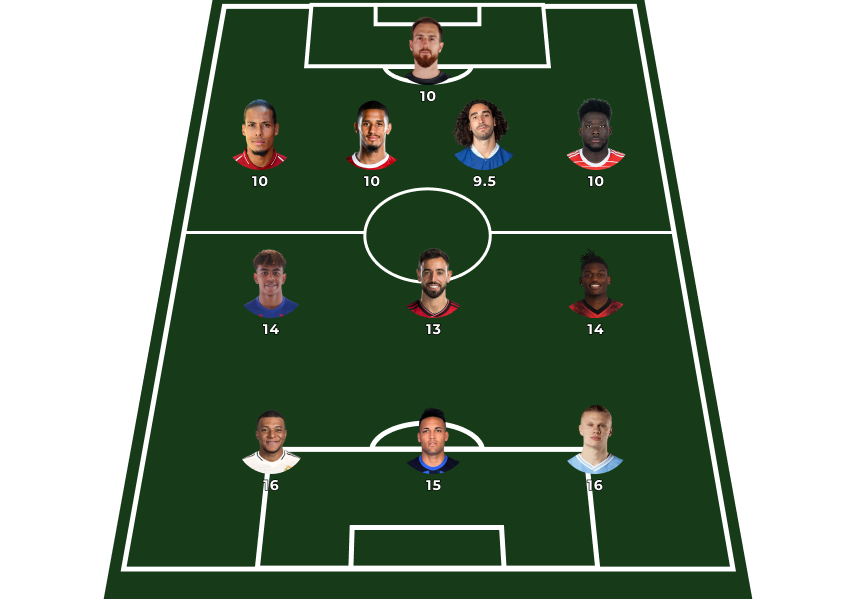
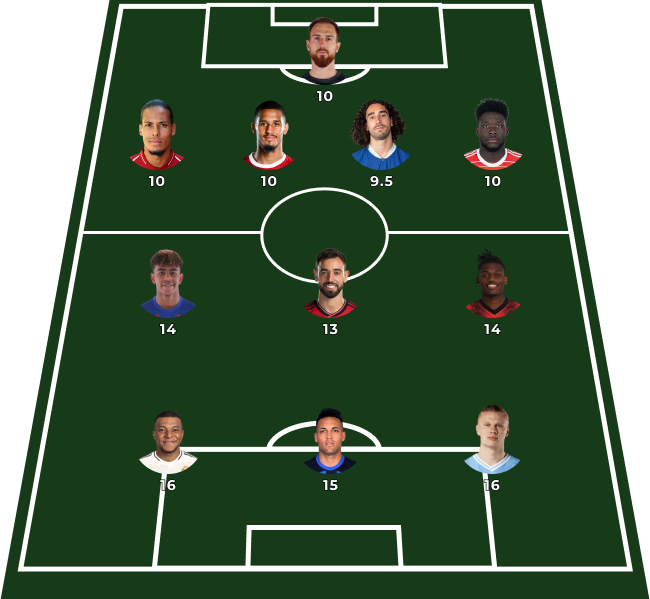
promotion create team ui fix

diff --git a/src/components/Promotions/CreateTeam/index.jsx b/src/components/Promotions/CreateTeam/index.jsx
@@ -7,36 +7,36 @@ const CreateTeam = () => {
       <Gutter>
         <div className="flex w-full flex-col items-center justify-between gap-4 lg:flex-row lg:gap-0">
           <div className="mt-8 flex flex-1 flex-col flex-wrap">
-            <div className="mb-12 w-5/6 -skew-x-12 self-start rounded-sm bg-primary pl-12 pr-16">
+            <div className="mb-12 w-5/6 max-w-[32rem] -skew-x-12 self-start rounded-sm bg-primary pl-12 pr-16">
               <h3 className="promotion-header text-center font-bold capitalize text-black">
                 Umumiy qoidalar
               </h3>
             </div>
-            <div className="flex flex-col flex-wrap justify-center gap-4 self-center">
-              <h2 className="promotion-header pl-8 font-bold uppercase">
+            <div className="flex flex-col flex-wrap justify-center gap-4 self-start lg:pl-8">
+              <h2 className="promotion-header font-bold uppercase">
                 jamoa yig&apos;ing
               </h2>
-              <p className="min-w-xl pl-8 text-base text-neutral-300 xs:text-xs lg:text-lg xl:text-xl 2xl:text-xl">
+              <p className="max-w-xl text-sm text-neutral-300 xs:text-base lg:text-lg xl:text-xl">
                 100 millionlik byudjetdan foydalaning va chempionatning eng
                 yaxshifutbolchilaridan iborat jamoani to&apos;plang
               </p>
-            </div>
-            <div className="relative self-start xs:px-8">
-              <Image
-                width={450}
-                height={505}
-                alt="footballers images"
-                className="min-h-72 min-w-80 xs:h-72 xs:w-72"
-                src="/images/football-tiles.png"
-              />
+              <div className="relative self-start xs:px-8">
+                <Image
+                  width={400}
+                  height={400}
+                  alt="footballers images"
+                  className="aspect-[1.12/1] w-full"
+                  src="/images/football-tiles.png"
+                />
+              </div>
             </div>
           </div>
-          <div className="">
+          <div className="items-end self-end">
             <Image
               src="/images/promotion-1.png"
-              width={800}
-              height={800}
-              className="min-w-full xs:min-w-96 md:min-w-[32rem] xl:min-w-[40rem] 2xl:min-w-[46rem]"
+              width={600}
+              height={600}
+              className="aspect-[1/1.025] h-full w-full min-w-full"
               alt="interactive stadium"
             />
           </div>

diff --git a/src/app/(pages)/championships/components/Modal/index.jsx b/src/app/(pages)/championships/components/Modal/index.jsx
@@ -4,32 +4,49 @@ import { useCreateTeam } from 'app/hooks/competition/useCreateTeam/useCreateTeam
 import { useState } from 'react'
 import { FORMATIONS } from 'app/utils/formations.util'
 import { useRouter } from 'next/navigation'
-import { useSelector } from 'react-redux'
+import { useDispatch, useSelector } from 'react-redux'
 import { selectTeams } from 'app/lib/features/teams/teams.selector'
+import { useCheckExistingTeam } from 'app/hooks/competition/useCheckExistingTeam/useCheckExistingTeam'
 
-const CompetitionModal = ({ toggleModal, game }) => {
+const CompetitionModal = ({ toggleModal, competition }) => {
+  const dispatch = useDispatch()
   const [title, setTitle] = useState('')
   const [formation, setFormation] = useState(FORMATIONS['4-3-3'])
   const router = useRouter()
   const selectedTeams = useSelector(selectTeams)
+  const { season } = useSelector((state) => state.season)
+  const {
+    checkTeam,
+    isLoading: checkLoading,
+    error: checkError,
+    data: checkData,
+  } = useCheckExistingTeam()
 
   const { createTeam, isLoading, error, data } = useCreateTeam()
 
   const handleSubmit = async (e) => {
     e.preventDefault()
 
-    const currentGame = selectedTeams.find(
-      (game) => game.competition_id === game.id
-    )
+    // await createTeam({ title, formation, competition_id: competition.id })
+    await checkTeam({ competition_id: competition.id, season_id: season.id })
+    console.log(checkData)
 
-    await createTeam({ title, formation, competition_id: game.id })
+    console.log(data, isLoading, error)
     if (!error && !isLoading && data) {
       setTitle('')
       setFormation(FORMATIONS['4-3-3'])
-      if (currentGame) {
-        router.push(`/play/${game.slug}/${currentGame.id}`)
-      }
       toggleModal()
+      dispatch(addGameToTeam(data[0]))
+    }
+
+    const currentGame = selectedTeams.find(
+      (game) => game.competition_id === competition.id
+    )
+
+    console.log(currentGame)
+
+    if (currentGame) {
+      router.push(`/play/${competition.slug}/${currentGame.id}`)
     }
   }
 

diff --git a/src/app/hooks/competition/useCheckExistingTeam/useCheckExistingTeam.jsx b/src/app/hooks/competition/useCheckExistingTeam/useCheckExistingTeam.jsx
@@ -4,14 +4,14 @@ import { useDispatch, useSelector } from 'react-redux'
 import { supabase } from '../../../lib/supabaseClient'
 import { useRouter } from 'next/navigation'
 
-export const useCreateTeam = () => {
+export const useCheckExistingTeam = () => {
   const [error, setError] = useState(null)
   const [isLoading, setIsLoading] = useState(false)
   const [data, setData] = useState(null)
   const { userTable, userAuth } = useSelector((state) => state.auth)
   const router = useRouter()
 
-  const createTeam = async ({ title, formation, competition_id }) => {
+  const checkTeam = async ({ competition_id, season_id }) => {
     setIsLoading(false)
     setError(null)
 
@@ -22,9 +22,9 @@ export const useCreateTeam = () => {
       return
     }
 
-    if (!title) {
-      setError('Ism bolishi shart')
-      toast.error('ism bolishi shart')
+    if (!competition_id || !season_id) {
+      setError('Competition and season are required')
+      toast.error('Competition and season are required')
       return
     }
 
@@ -33,14 +33,10 @@ export const useCreateTeam = () => {
 
       const { data, error } = await supabase
         .from('team')
-        .insert({
-          name: title,
-          formation,
-          balance: 100,
-          competition_id,
-          user_id: userTable.id,
-        })
-        .select()
+        .select('id, name')
+        .eq('user_id', userTable.id)
+        .eq('competition_id', 1)
+        .eq('season_id', season_id)
 
       if (error) {
         setError(error.message)
@@ -48,8 +44,8 @@ export const useCreateTeam = () => {
         return
       }
       if (data) {
-        setData(data[0])
-        toast.success('Jomoa muvaffaqiyatli yaratildi')
+        setData(data)
+        console.log(data)
       }
     } catch (error) {
       setError(error.message)
@@ -58,5 +54,5 @@ export const useCreateTeam = () => {
       setIsLoading(false)
     }
   }
-  return { createTeam, isLoading, error, data }
+  return { checkTeam, isLoading, error, data }
 }

diff --git a/src/app/(pages)/championships/components/Championship/index.jsx b/src/app/(pages)/championships/components/Championship/index.jsx
@@ -10,8 +10,8 @@ const Championship = ({ game }) => {
   const dispatch = useDispatch()
   const [isModalOpen, setModalOpen] = useState(false)
   const [currentGame, setCurrentGame] = useState(null)
-  const teams = useSelector(selectTeams)
   const router = useRouter()
+  const { teams } = useSelector((state) => state.teams)
   const { season } = useSelector((state) => state.season)
 
   const toggleModal = () => {
@@ -27,7 +27,6 @@ const Championship = ({ game }) => {
       }
     }
   }
-  // eslint-disable-next-line react-hooks/exhaustive-deps
 
   useEffect(() => {
     const currentGame = teams?.find((team) => team.competition_id === game.id)
@@ -63,7 +62,9 @@ const Championship = ({ game }) => {
           </h3>
         </div>
       </article>
-      {isModalOpen && <LeagueModal toggleModal={toggleModal} game={game} />}
+      {isModalOpen && (
+        <LeagueModal toggleModal={toggleModal} competition={game} />
+      )}
     </>
   )
 }

diff --git a/src/app/(pages)/play/components/Transfer/Overview/index.jsx b/src/app/(pages)/play/components/Transfer/Overview/index.jsx
@@ -2,6 +2,7 @@ import { useSelector } from 'react-redux'
 
 const Overview = () => {
   const { currentTeam } = useSelector((state) => state.currentTeam)
+  const { tourTeam } = useSelector((state) => state.tourTeam)
 
   return (
     <div className="mb-4 grid grid-cols-4 rounded-xl bg-neutral-950 p-6 capitalize text-neutral-50">
@@ -11,7 +12,7 @@ const Overview = () => {
       </div>
       <div className="flex flex-col">
         <h3 className="text-sm text-neutral-400">jamoa narxi</h3>
-        <p className="text-4xl font-bold">22.5</p>
+        <p className="text-4xl font-bold">{tourTeam.price ?? '00'}</p>
       </div>
       <div className="relative flex flex-col">
         <h3

diff --git a/src/app/lib/features/currentTeam/currentTeam.extraReducer.js b/src/app/lib/features/currentTeam/currentTeam.extraReducer.js
@@ -1,4 +1,4 @@
-import { fetchCurrentTeam } from "./currentTeam.thunk"
+import { fetchCurrentTeam } from './currentTeam.thunk'
 
 export const currentTeamExtraReducer = (builder) => {
   builder
@@ -7,7 +7,9 @@ export const currentTeamExtraReducer = (builder) => {
     })
     .addCase(fetchCurrentTeam.fulfilled, (state, action) => {
       state.isLoading = false
-      state.currentTeam = action.payload.data[0]
+      if (action.payload.data.length > 0) {
+        state.currentTeam = action.payload.data[0]
+      }
     })
     .addCase(fetchCurrentTeam.rejected, (state, action) => {
       state.isLoading = false

diff --git a/src/app/lib/features/season/season.extraReducer.js b/src/app/lib/features/season/season.extraReducer.js
@@ -7,10 +7,9 @@ export const seasonExtraReducer = (builder) => {
     })
     .addCase(fetchSeason.fulfilled, (state, action) => {
       state.isLoading = false
-      if (!action.payload.data) {
-        return state
+      if (action.payload.data.length > 0) {
+        state.season = action.payload.data[0]
       }
-      state.season = action.payload.data[0]
     })
     .addCase(fetchSeason.rejected, (state, action) => {
       state.isLoading = false

diff --git a/src/app/(pages)/play/components/GameNavigation/TourTabs/index.jsx b/src/app/(pages)/play/components/GameNavigation/TourTabs/index.jsx
@@ -51,7 +51,7 @@ export default function TourTabs() {
         value={currentTourIndex}
         variant="scrollable"
         scrollButtons="auto"
-        className="mt-4 rounded text-white"
+        className="mt-4 rounded text-neutral-50 disabled:text-neutral-500"
         aria-label="scrollable auto tabs example "
       >
         {selectedTours?.map((item, index) => (

diff --git a/src/app/lib/features/tourTeam/tourTeam.extraReducer.js b/src/app/lib/features/tourTeam/tourTeam.extraReducer.js
@@ -7,7 +7,7 @@ export const tourTeamExtraReducer = (builder) => {
     })
     .addCase(fetchTourTeam.fulfilled, (state, action) => {
       state.isLoading = false
-      if (action.payload.data[0]) {
+      if (action.payload.data.length > 0) {
         state.tourTeam = action.payload.data[0]
       }
     })
